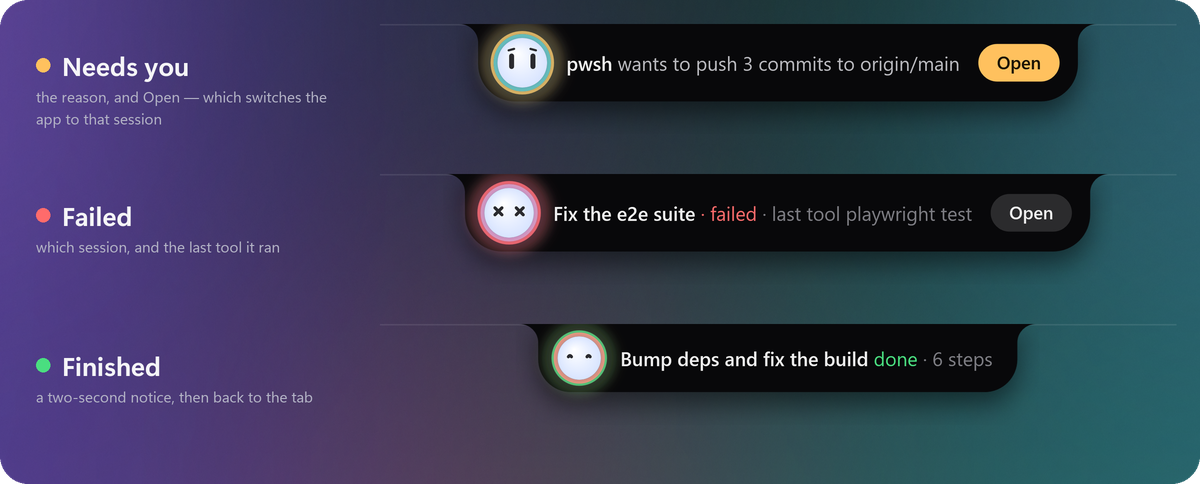
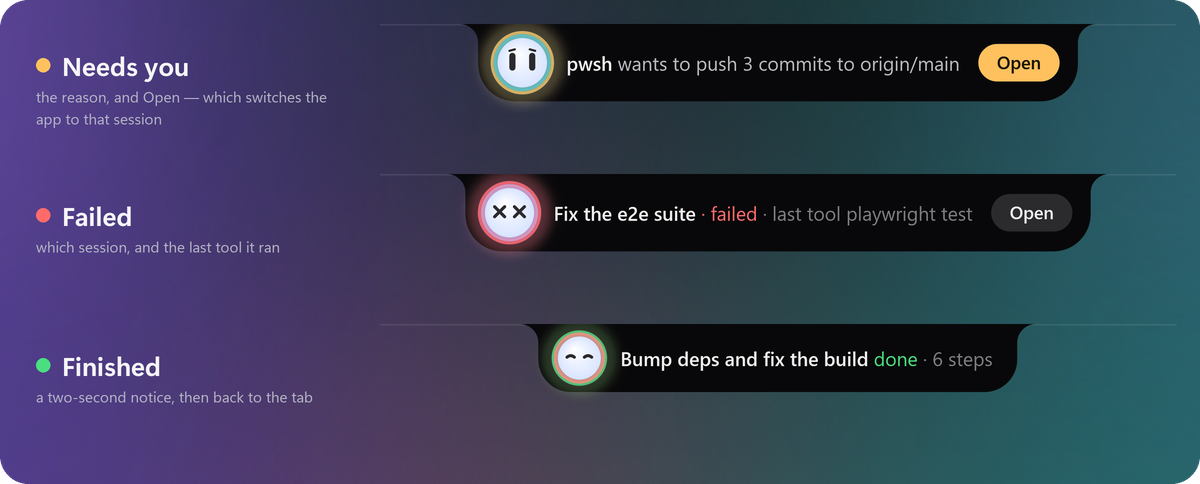
0.1.9: it gets out of your way
The host entry is host-0.1.9.js (the loader caches a module by its URL, AGENTS.md 5.1), and the
window's version follows the package.

README: every picture re-rendered from the window, a new "It never gets in the way" section with
docs/hover.png (a ghost tab clicked through, a rested pointer unfolding the board), and the hover
story in Why, the board, the feature cells and the Chinese section. The pictures are now Markdown
images inside centred divs: awesome-dsh-plugin.com drops a README's raw HTML, so its <img> tags never
reached the plugin's page there, which showed the text and no pictures at all.

diff --git a/lib/host.js b/lib/host.js
@@ -1,7 +1,7 @@
 /**
- * The stable import path. Tests and readers use this name; the plugin ROW mounts `host-0.1.8.js`
+ * The stable import path. Tests and readers use this name; the plugin ROW mounts `host-0.1.9.js`
  * through package.json's `main`, because the module loader caches an imported file by its URL — a fix
  * that must land without restarting the app therefore needs a new file name, and the row follows it.
  */
 
-export * from "./host-0.1.8.js";
+export * from "./host-0.1.9.js";

diff --git a/tools/readme-media.py b/tools/readme-media.py
@@ -200,6 +200,7 @@ def shots():
     for name, rows in sets.items():
         shot(f"tab-{name}", state(rows, far), extra=settled)
     shot("board-attention", state(sets["attention"], far), True, settled)
+    shot("board-working", state(sets["working"], far), True, settled)   # the hover sheet's unfolded board
     # the island: the tab grown into an alert, one per kind
     shot("island-x1", state(sets["attention"], far), extra=("--island", "x1", *settled))
     shot("island-x4", state([session("session-e5-fail", "Fix the e2e suite", "web-app", "error", now - 2 * m, "pink", "playwright test", 80_000, 11), a(), b()], far),
@@ -387,6 +388,65 @@ def states_sheet():
     print("states ->", DOCS / "states.png")
 
 
+def pointer(d, x, y, S):
+    """The Windows arrow, tip at (x, y): white with a dark edge, as it sits over any background."""
+    pts = [(0, 0), (0, 17), (4, 13), (7, 20), (10, 19), (7, 12), (12, 12)]
+    poly = [(x + px * 1.5 * S, y + py * 1.5 * S) for px, py in pts]
+    d.polygon(poly, fill=hexc("#FFFFFF"), outline=hexc("#111114"), width=max(1, S))
+
+
+def hover_sheet():
+    """Why it never gets in the way: a pointer passing over the tab meets a ghost it clicks through;
+    a pointer that rests unfolds the board. Both notches are the window's own renders — the ghost is
+    the tab at `ghostOpacity` (0.18), which is all the window does to it."""
+    S = 2
+    cw, chh, gap = 600 * S, 330 * S, 20 * S
+    W, H = cw * 2 + gap, chh
+    canvas = Image.new("RGBA", (W, H), (0, 0, 0, 0))
+    cards = [
+        ("Passing over", WORKING, "It fades to a ghost, and your click lands on what is under it."),
+        ("Resting on it", ACCENT, "Rest 1.6 s — or push to the top edge — and the board unfolds."),
+    ]
+    for i, (label, col, line) in enumerate(cards):
+        card = wallpaper(cw, chh, seed=31 + i)
+        d = ImageDraw.Draw(card)
+        if i == 0:
+            # what the notch covers: the top of an ordinary light app window
+            app, a = layer((cw, chh))
+            a.rounded_rectangle((34 * S, -20 * S, cw - 34 * S, 196 * S), radius=14 * S, fill=hexc("#F2F3F7"))
+            for k, (x0, w) in enumerate([(56, 120), (190, 96), (300, 140), (454, 88)]):
+                a.rounded_rectangle((x0 * S, 14 * S, (x0 + w) * S, 30 * S), radius=8 * S, fill=hexc("#D9DCE5" if k else "#BFC7FF"))
+            for k, w in enumerate([420, 360, 470, 300]):
+                a.rounded_rectangle((60 * S, (62 + k * 30) * S, (60 + w) * S, (74 + k * 30) * S), radius=6 * S, fill=hexc("#DDE0E8"))
+            card = Image.alpha_composite(card, app)
+            tab = notch_crop(Image.open(OUT / "shots" / "tab-working.png"))
+            tab = scaled(tab, min(cw - 80 * S, int(tab.width * S / 4 * 1.9)))
+            tab.putalpha(tab.getchannel("A").point(lambda v: v * 18 // 100))
+            tx = (cw - tab.width) // 2
+            card.alpha_composite(tab, (tx, 0))
+            d = ImageDraw.Draw(card)
+            pointer(d, tx + tab.width * 0.58, tab.height * 0.42, S)
+        else:
+            board = notch_crop(Image.open(OUT / "shots" / "board-working.png"))
+            fit = min((cw - 60 * S) / board.width, 212 * S / board.height)
+            board = board.resize((round(board.width * fit), round(board.height * fit)), Image.LANCZOS)
+            bx = (cw - board.width) // 2
+            card.alpha_composite(board, (bx, 0))
+            d = ImageDraw.Draw(card)
+            pointer(d, bx + board.width * 0.56, 14 * S, S)
+        d.ellipse((40 * S, 250 * S, 54 * S, 264 * S), fill=hexc(col))
+        d.text((66 * S, 257 * S), label, font=variable(27 * S, 650), fill=hexc(INK), anchor="lm")
+        d.text((40 * S, 298 * S), line, font=variable(16 * S, 400), fill=hexc("#B4B4C6"), anchor="lm")
+        edge, e = layer((cw, chh))
+        e.rounded_rectangle((0, 0, cw - 1, chh - 1), radius=24 * S, outline=hexc("#FFFFFF", 34), width=S)
+        card = Image.alpha_composite(card, edge)
+        mask = Image.new("L", (cw, chh), 0)
+        ImageDraw.Draw(mask).rounded_rectangle((0, 0, cw - 1, chh - 1), radius=24 * S, fill=255)
+        canvas.paste(card, (i * (cw + gap), 0), mask)
+    canvas.resize((W // S, H // S), Image.LANCZOS).save(DOCS / "hover.png", optimize=True)
+    print("hover ->", DOCS / "hover.png")
+
+
 def island_sheet():
     """The three alerts the tab grows into, stacked on one slice of desktop, each with its name."""
     rows = [("island-x1", "Needs you", ATTENTION, "the reason, and Open — which switches the app to that session"),
@@ -528,7 +588,7 @@ def main():
     elif cmd == "shots":
         shots()
     elif cmd == "art":
-        hero(); states_sheet(); island_sheet(); faces()
+        hero(); states_sheet(); hover_sheet(); island_sheet(); faces()
         framed("board-many", "board-many.png"); framed("board-nobudget", "board-nobudget.png")
         framed("board-stale", "board-stale.png")
         demo_webp(); demo_gif()

diff --git a/README.md b/README.md
@@ -1,6 +1,6 @@
 <div align="center">
 
-<img src="docs/hero.png" alt="Agents Notch: a dark notch hanging from the top of the screen, unfolded into a board — a big bot wearing an amber ring because its session needs you, the reason beside it with an Open button, and the other sessions listed below" width="100%">
+![Agents Notch: a dark notch hanging from the top of the screen, unfolded into a board — a big bot wearing an amber ring because its session needs you, the reason beside it with an Open button, and the other sessions listed below](docs/hero.png)
 
 <br>
 
@@ -16,7 +16,7 @@ that answers one question: which of my sessions needs me right now?**
 
 <br>
 
-<img src="docs/demo.webp" alt="Three bots working while light runs along the tab; one stops on you and the tab grows into an alert with its reason and an Open button; the board unfolds on it; it goes back to work, the board folds, and it finishes — the tab shows a short 'done' notice" width="760">
+![Three bots working while light runs along the tab; one stops on you and the tab grows into an alert with its reason and an Open button; the board unfolds on it; it goes back to work, the board folds, and it finishes — the tab shows a short 'done' notice](docs/demo.webp)
 
 <sub>Recorded from the window itself (<code>--record</code>), frame by frame — not a mock-up.</sub>
 
@@ -38,24 +38,43 @@ context switch every time:
 The notch is a small always-on-top tab that **never takes focus**, **hides under a full-screen app**, and
 shows the one thing the sidebar cannot while you are in another window: **a session stuck on you**. When
 one gets stuck, the tab grows into an alert that says why, with an **Open** button that switches the app
-to that session — from wherever it is, minimized or in the tray. Hover the tab and the board unfolds.
+to that session — from wherever it is, minimized or in the tray. And it **never gets in the way**:
+pass over it and it fades and lets your click through; rest on it and the board unfolds.
 
 ## What it shows
 
-<p align="center">
-  <img src="docs/states.png" width="860" alt="Four cards, one per state of the folded tab: working (a blue arc turns), needs you (amber ring), done (green ring and the ^^ face), failed (red ring and the x x face)">
-</p>
+<div align="center">
+
+![Four cards, one per state of the folded tab: working (a blue arc turns), needs you (amber ring), done (green ring and the ^^ face), failed (red ring and the x x face)](docs/states.png)
+
+</div>
 
 That strip is the whole visual language. **Working** wears a slow blue arc and nothing else, because
 working is the quiet default — and while any session is running a tool, light runs along the tab's lower
 edge. **Needs you** wears amber, **done** green, **failed** red. Every session keeps its own colour on the
 bot's rim, so three sessions read as three sessions rather than three copies of one.
 
+### It never gets in the way
+
+<div align="center">
+
+![Two cards: passing over the tab, it fades to a ghost and the click lands on the app under it; resting on it, the board unfolds](docs/hover.png)
+
+</div>
+
+The tab sits where you reach for tabs and title bars, so it steps aside. A pointer **passing over** it
+turns it into a faint ghost that clicks go straight through — to the browser tab or the menu under it.
+Only a pointer that **rests** there for 1.6 s unfolds the board, and pushing it against the top edge of
+the screen opens it at once. All three are settings (`hoverMode`, `holdMs`, `topEdgeOpens`); `open`
+brings back unfold-on-hover.
+
 ### The tab speaks up
 
-<p align="center">
-  <img src="docs/island.png" width="860" alt="Three alerts the tab grows into: needs you (the reason and an amber Open button), failed (the session and the last tool it ran, with Open), and finished (a short notice with the session's title)">
-</p>
+<div align="center">
+
+![Three alerts the tab grows into: needs you (the reason and an amber Open button), failed (the session and the last tool it ran, with Open), and finished (a short notice with the session's title)](docs/island.png)
+
+</div>
 
 When something **new** happens — a session asks for you, fails, or finishes — the tab grows into an
 alert for a few seconds and then folds back. **Open** takes you straight to that session. Only fresh
@@ -63,11 +82,13 @@ events are announced: a question that has been waiting for an hour is on the boa
 
 ### The board
 
-<p align="center">
-  <img src="docs/board-many.png" width="760" alt="The unfolded board: the big bot and its session's title, project, age and context at the top, its current tool and step, and below it a scrolling list of every other session with a small bot, what it is doing and how long ago">
-</p>
+<div align="center">
 
-Hover the tab and the board unfolds. At the top is the session that **changed most recently**, so a
+![The unfolded board: the big bot and its session's title, project, age and context at the top, its current tool and step, and below it a scrolling list of every other session with a small bot, what it is doing and how long ago](docs/board-many.png)
+
+</div>
+
+Rest the pointer on the tab, or push it against the top of the screen, and the board unfolds. At the top is the session that **changed most recently**, so a
 finish or a question is what you see first: its title, its project and age, how full its context is, and
 one line of what it is doing — the tool it is running and the step, the question it is asking in full,
 or how it ended. Below it, every other session in one list: what it is doing in a word and how long ago.
@@ -79,9 +100,11 @@ the app.
 
 ### Sixteen faces
 
-<p align="center">
-  <img src="docs/faces.png" width="860" alt="A grid of the big bot's faces, each in the state that wears it: focused, thinking, determined, tired, glances, confused, dizzy, love, pleading, peeking, ^^, starry, wink, x x and asleep — each captioned with when it appears">
-</p>
+<div align="center">
+
+![A grid of the big bot's faces, each in the state that wears it: focused, thinking, determined, tired, glances, confused, dizzy, love, pleading, peeking, ^^, starry, wink, x x and asleep — each captioned with when it appears](docs/faces.png)
+
+</div>
 
 The bot's face is the state, read closer. A working bot is **focused** in a tool and **thinking** between
 tools, **determined** on a long busy turn and **tired** after half an hour; it is **confused** when a tool
@@ -95,8 +118,8 @@ that finished an hour ago is noise.
 <td width="33%" valign="top">
 
 **🫥 Never in the way**<br>
-Topmost, but never takes focus. Clicks pass through everywhere it is not drawn. Hides under a
-full-screen app.
+Never takes focus, and steps aside when you pass over it: it fades and your click goes through.
+No shadow on your desktop. Hides under a full-screen app.
 
 </td>
 <td width="33%" valign="top">
@@ -118,8 +141,8 @@ the host stops answering.
 <td valign="top">
 
 **🎛 A Settings pane of its own**<br>
-Settings → Agents Notch: size, anchor, display, rows, opacity, motion. A change lands on the next
-tick — nothing restarts.
+Settings → Agents Notch: size, anchor, display, rows, opacity, motion, how it reacts to the pointer,
+and which alerts pop up. A change lands on the next tick — nothing restarts.
 
 </td>
 <td valign="top">
@@ -233,9 +256,11 @@ the session feed carries it, so this plugin defaults it to `null` — and with `
 count and no percentage, no bar and no amber. A percentage against an invented denominator is a lie
 that looks like information, which is worse than a number with units.
 
-<p align="center">
-  <img src="docs/board-nobudget.png" width="760" alt="The same board with no budget: the sub line says how many tokens, and there is no bar">
-</p>
+<div align="center">
+
+![The same board with no budget: the sub line says how many tokens, and there is no bar](docs/board-nobudget.png)
+
+</div>
 
 Set it to your route's real window (this build's DeepSeek V4 routes: `1000000`) and the percentage and
 the bar appear.
@@ -255,9 +280,11 @@ failed probes and retires settled rows after 15 minutes instead, and says so in 
 When the host stops answering, the board stops pretending — the tab goes grey, the bot falls asleep,
 and the sub line dates the last heartbeat instead of repeating a summary nobody is updating:
 
-<p align="center">
-  <img src="docs/board-stale.png" width="760" alt="Host offline: the tab is grey, the bot is asleep, and the board says when it last heard from the host">
-</p>
+<div align="center">
+
+![Host offline: the tab is grey, the bot is asleep, and the board says when it last heard from the host](docs/board-stale.png)
+
+</div>
 
 ## Limits, stated plainly
 
@@ -320,10 +347,10 @@ host looks for one.
 
 - **工作中**是缓慢转动的蓝色弧线，正在调用工具时标签底边会有光流过；**需要你**是琥珀色光圈；**完成**是绿色光圈和 `^^` 表情；**失败**是红色光圈和 `x x` 表情。
 - 有会话需要你、失败或完成时，标签会短暂展开成提示，显示原因和 **Open** 按钮——一键切换到该会话，即使应用最小化或在托盘里。
-- 鼠标悬停即展开面板：最新变化的会话在顶部（标题、项目、上下文用量、正在运行的工具或等待的问题），其余会话列在下方，超出时可滚动。单击一行在大机器人上查看，双击或 **Open ↗** 切换到该会话。
+- 从不挡路：鼠标经过时标签变成半透明，点击直接穿透到下面的窗口；停留 1.6 秒（或把鼠标推到屏幕顶边）才展开面板：最新变化的会话在顶部（标题、项目、上下文用量、正在运行的工具或等待的问题），其余会话列在下方，超出时可滚动。单击一行在大机器人上查看，双击或 **Open ↗** 切换到该会话。
 - 机器人有十六种表情：思考、专注、疲惫、困惑、恳求、完成、睡着……
 - 从不抢焦点，全屏应用下自动隐藏；没有真实的上下文预算就不显示百分比，宿主断开时标签变灰并注明最后心跳时间。
-- 设置 → **Agents Notch** 有独立设置页：大小、位置、显示器、行数、不透明度、动效，修改即时生效。
+- 设置 → **Agents Notch** 有独立设置页：大小、位置、显示器、行数、不透明度、动效、悬停方式、提示类型，修改即时生效。
 
 ```powershell
 dsh plugin --profile web add dsh-agents-notch

diff --git a/CHANGELOG.md b/CHANGELOG.md
@@ -1,5 +1,27 @@
 # Changelog
 
+## 0.1.9 — it gets out of your way
+
+**The tab steps aside.** It hangs exactly where you reach for browser tabs and title bars, and a hover
+used to unfold the board over them. Now a pointer passing over the tab turns it into a faint ghost that
+your click goes straight through. Only a pointer that rests there for 1.6 s unfolds the board, and
+pushing the pointer against the top edge of the screen opens it at once. A click while it is a ghost
+restarts the wait, because that pointer was busy with the window underneath.
+
+**No more grey smudge.** The drop shadows under the board and the tab are gone; on a light wallpaper or
+a white page they read as dirt on the screen.
+
+**Five new settings**, in the pane and the row: `hoverMode` (`ghost`, or `open` for the old
+unfold-on-hover), `holdMs` (500–4000), `topEdgeOpens`, `ghostOpacity` (0.05–0.6), and `alerts` (`all`,
+`needs-you` for questions and failures only, or `off`). The pane's sliders now show their value.
+
+**A plan waiting for you is a question.** A session that finished planning and is waiting for you to
+approve the plan said "working"; it now wears the needs-you ring with "approve the plan: <its title>",
+for both the harness's own plan mode and the Claude provider's.
+
+**Bolder eyes on the big bot.** Wider, taller eyes and larger ^^, stars, dots and spirals, so the board's
+bot no longer squints at 60 px. The tab's small bots are unchanged.
+
 ## 0.1.8 — the bots get faces, and the tab speaks up
 
 **One list instead of two.** The board listed every session twice — task lines on the left, project

diff --git a/AGENTS.md b/AGENTS.md
@@ -25,7 +25,7 @@ decides what is true — that split is the whole architecture, and every "the no
 question is answered by looking at `state.json` first.
 
 ```
-lib/host-0.1.8.js   the entry the plugin row mounts (see the cache trap, §5.1)
+lib/host-0.1.9.js   the entry the plugin row mounts (see the cache trap, §5.1)
 lib/host.js         re-export shim: the stable import path for tests and readers
 lib/state.js        pure reducer: events -> session records -> the published rows (schema 4)
 lib/settings-store.js  the three settings layers, one clamp (defaults < row config < pane file)
@@ -122,7 +122,7 @@ in the 30-second window or a granular token with "bypass 2FA").
 Re-applying a plugin row serves the module the app already imported. Editing `lib/host.js` and
 re-mounting changes **nothing** — measured twice, once as a settings route that answered `404` while the
 code sat in the file. To land code without restarting the app: give the entry a **new file name** and
-point `package.json`'s `main` at it (that is why the entry is `host-0.1.8.js`), keeping `lib/host.js` as
+point `package.json`'s `main` at it (that is why the entry is `host-0.1.9.js`), keeping `lib/host.js` as
 a re-export shim for the imports. A `?v=` query on a row's `name` makes the import fail outright.
 
 ### 5.2 A duplicate JSON key deletes a feature silently
